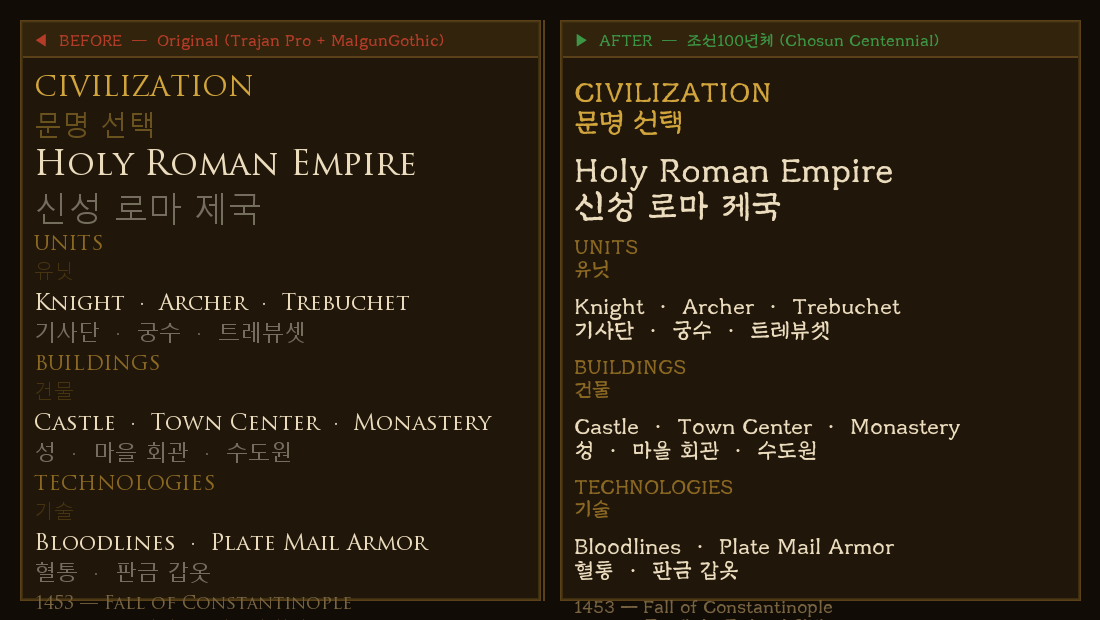
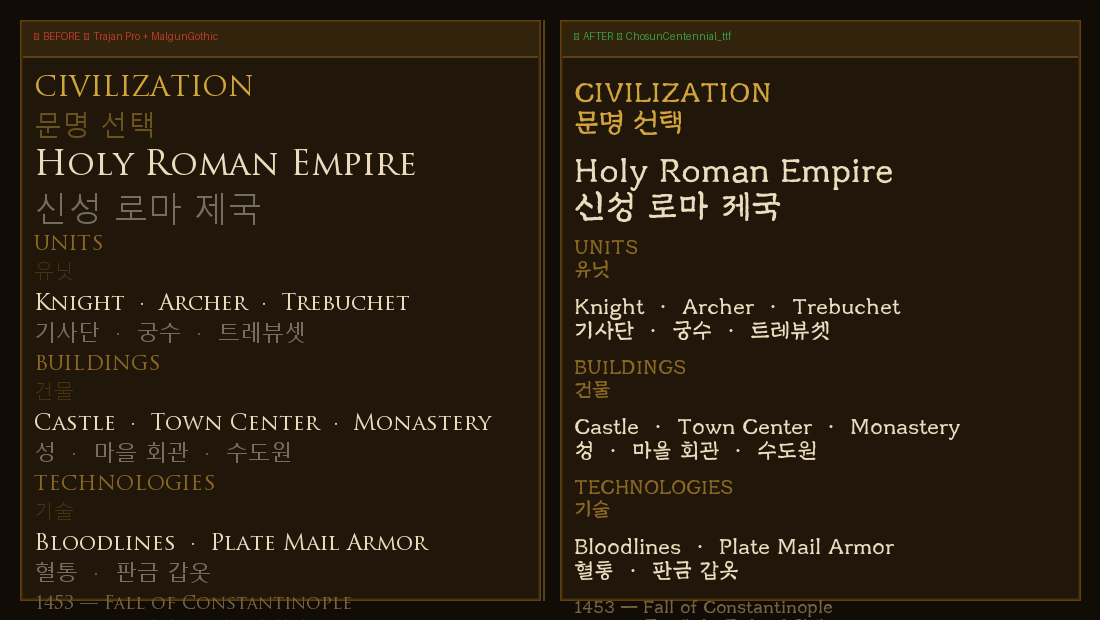
Fix BEFORE panel: use MalgunGothic for Korean text

Changed region(s): [[0.0309, 0.0306, 0.4018, 0.0919], [0.5255, 0.0306, 0.8655, 0.0919]]

diff --git a/generate_preview.py b/generate_preview.py
@@ -32,13 +32,15 @@ SAMPLES = [
     ('1453 — Fall of Constantinople', '1453 — 콘스탄티노폴리스의 함락',   18, DIM_TEXT),
 ]
 
-def find_original_font():
+def find_original_fonts():
     wpfg = os.path.expanduser(
         "~/Library/Application Support/Steam/steamapps/common/AoE2DE"
         "/AgeOfEmpires2Data/resources/_common/wpfg/fonts"
     )
-    path = os.path.join(wpfg, "TrajanPro-Regular.ttf")
-    return path if os.path.isfile(path) else None
+    en = os.path.join(wpfg, "TrajanPro-Regular.ttf")
+    ko = os.path.join(wpfg, "MalgunGothic.ttf")
+    return (en if os.path.isfile(en) else None,
+            ko if os.path.isfile(ko) else None)
 
 def load(path, size):
     try:
@@ -57,13 +59,13 @@ def draw_panel(draw, x, y, w, h, title, title_color):
               font=ImageFont.load_default())
 
 def generate(mod_font_path, output_path):
-    orig_font = find_original_font()
+    orig_en, orig_ko = find_original_fonts()
 
     img  = Image.new('RGB', (W, H), BG_DARK)
     draw = ImageDraw.Draw(img)
 
     draw_panel(draw, 20,  20, 520, 580,
-               '◀  BEFORE  —  Original', RED_LABEL)
+               '◀  BEFORE  —  Trajan Pro + MalgunGothic', RED_LABEL)
     draw_panel(draw, 560, 20, 520, 580,
                f'▶  AFTER  —  {os.path.splitext(os.path.basename(mod_font_path))[0]}',
                GREEN_LABEL)
@@ -71,12 +73,12 @@ def generate(mod_font_path, output_path):
 
     y_off = 55
     for en, ko, size, color in SAMPLES:
-        # BEFORE — English
-        f_orig = load(orig_font, size) if orig_font else ImageFont.load_default()
-        draw.text((34, 20 + y_off), en, fill=color, font=f_orig)
-        # BEFORE — Korean (dimmed, often missing in original)
+        # BEFORE — English: TrajanPro, Korean: MalgunGothic
+        f_en = load(orig_en, size) if orig_en else ImageFont.load_default()
+        f_ko = load(orig_ko, size) if orig_ko else ImageFont.load_default()
+        draw.text((34, 20 + y_off), en, fill=color, font=f_en)
         draw.text((34, 20 + y_off + size + 2), ko,
-                  fill=tuple(c // 2 for c in color), font=f_orig)
+                  fill=tuple(c // 2 for c in color), font=f_ko)
 
         # AFTER — both English and Korean
         f_mod = load(mod_font_path, size)
